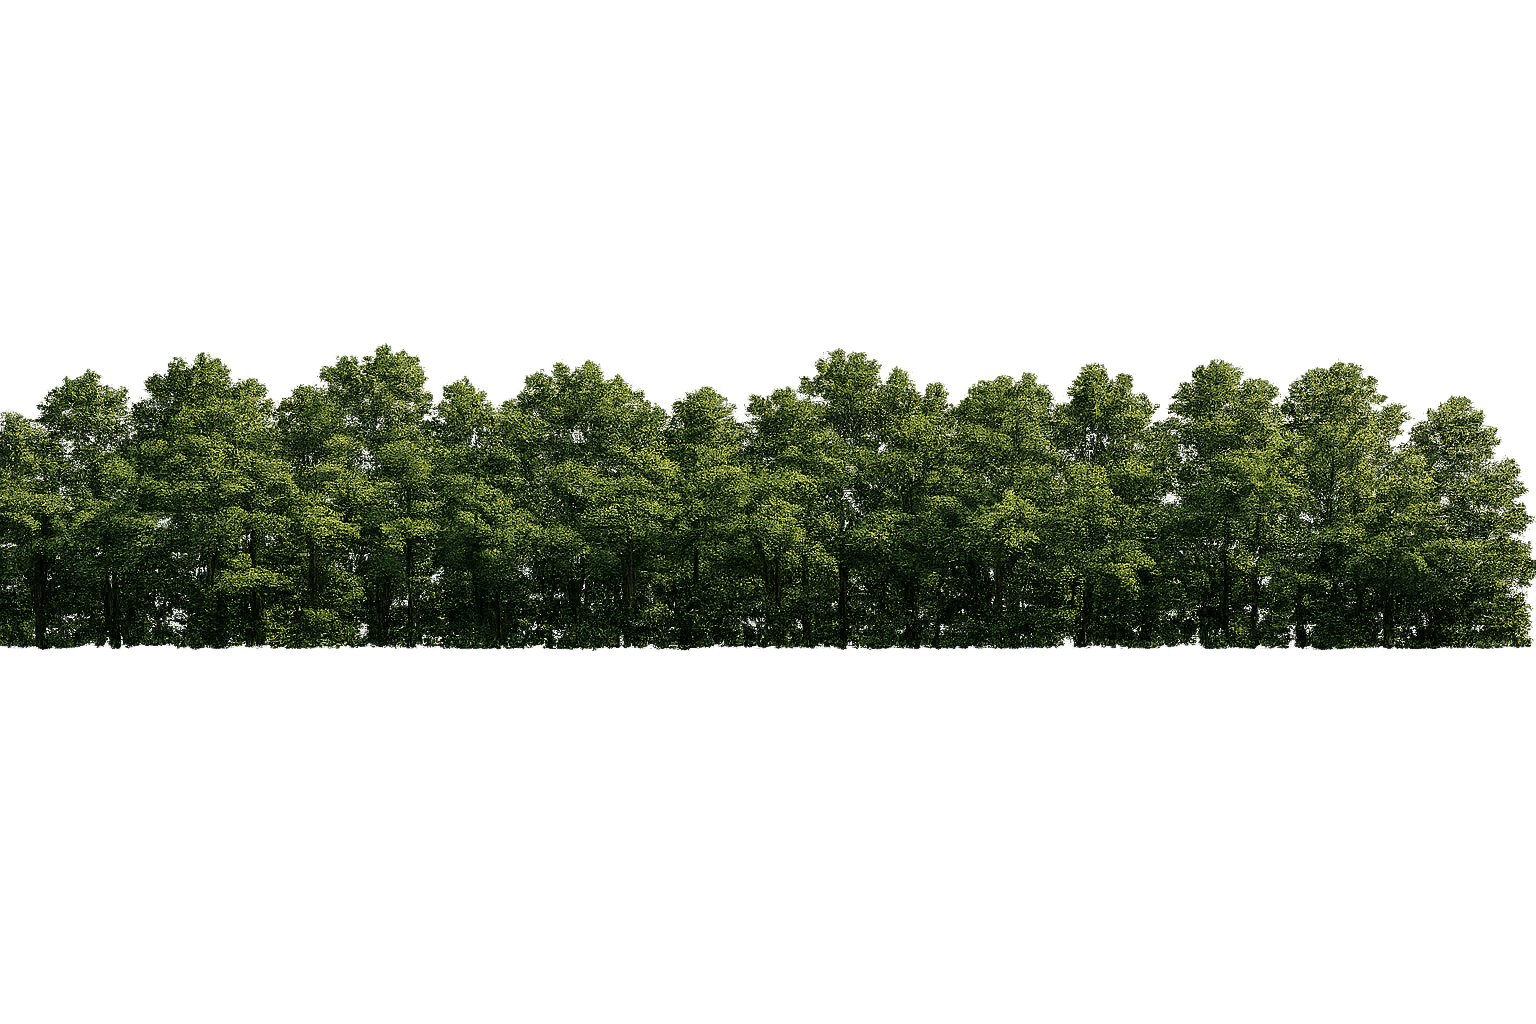
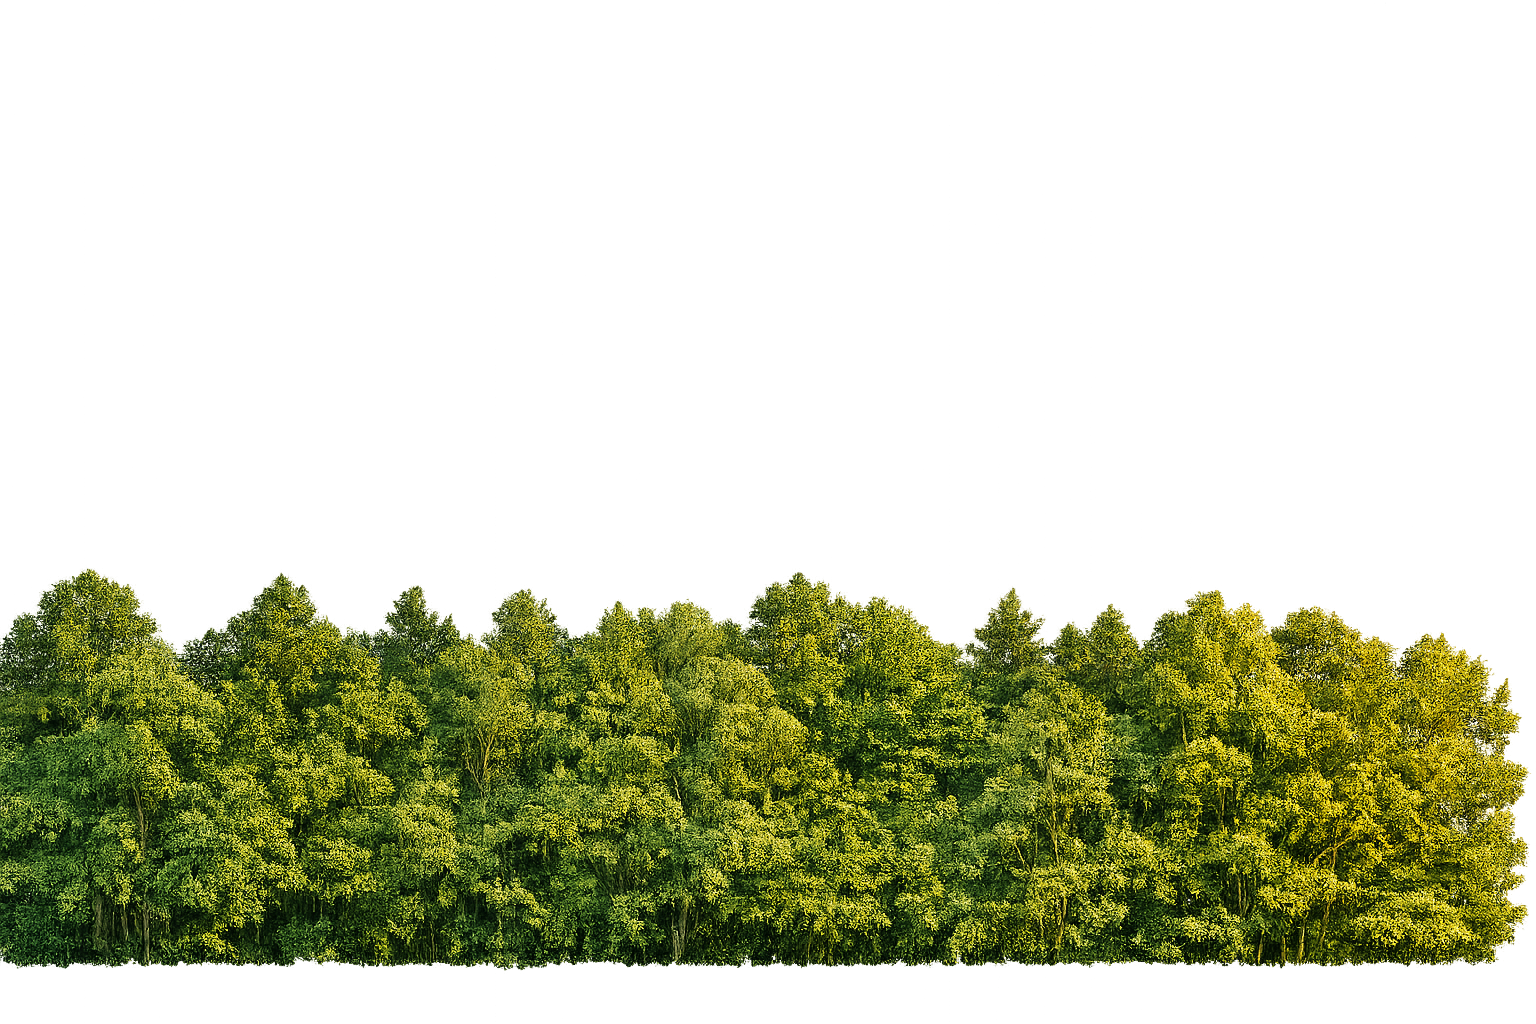
update up to static phases (parallax)

diff --git a/src/components/StaticSlide.jsx b/src/components/StaticSlide.jsx
@@ -1,28 +1,38 @@
-// src/components/StaticSlide.jsx — full-screen dark "breath" slide between animated sections
+// src/components/StaticSlide.jsx
 import { useEffect, useRef } from 'react'
 import { gsap } from 'gsap'
 import { ScrollTrigger } from 'gsap/ScrollTrigger'
 
-// Mouse parallax depth per layer — layer1 slowest (bg), layer3 fastest (fg)
-const MOUSE_DEPTHS = [0.012, 0.026, 0.044]
-
-// Scroll parallax — how many px each layer travels vertically across the full slide scroll
-const SCROLL_TRAVEL = [40, 80, 130]
-
-// Oversize to prevent edge gaps during movement (%)
 const OVERSIZE = 8
 
+// Per-slide config: layer count, mouse depth, scroll travel per layer
+const SLIDE_CONFIG = {
+  'static-identity':        { count: 4, depths: [0.006, 0.014, 0.024, 0.036], travel: [20, 45, 75, 110] },
+  'static-varazdin-transit':{ count: 4, depths: [0.006, 0.014, 0.024, 0.036], travel: [20, 45, 75, 110] },
+  'static-model':           { count: 4, depths: [0.006, 0.014, 0.024, 0.036], travel: [20, 45, 75, 110] },
+  'static-phases':          { count: 5, depths: [0.006, 0.012, 0.020, 0.030, 0.042], travel: [20, 40, 65, 95, 130] },
+  'static-full-vision':     { count: 4, depths: [0.006, 0.014, 0.024, 0.036], travel: [20, 45, 75, 110] },
+  'static-partnership':     { count: 4, depths: [0.006, 0.014, 0.024, 0.036], travel: [20, 45, 75, 110] },
+  'static-nextstep':        { count: 4, depths: [0.006, 0.014, 0.024, 0.036], travel: [20, 45, 75, 110] },
+  'static-contact':         { count: 4, depths: [0.006, 0.014, 0.024, 0.036], travel: [20, 45, 75, 110] },
+}
+
 function layerSrc(slideId, n) {
-  if (slideId === 'static-partnership' && n === 1) return `/parallax/${slideId}/layer${n}.jpg`
+  if (n === 1) return `/parallax/${slideId}/layer${n}.webp`
   return `/parallax/${slideId}/layer${n}.png`
 }
 
 export default function StaticSlide({ id, zIndex, height = '150vh', children }) {
   const containerRef = useRef(null)
   const wrapperRef   = useRef(null)
-  const layerRefs    = [useRef(null), useRef(null), useRef(null)]
-  const mouseXY      = useRef({ x: 0, y: 0 })
-  const hasParallax  = Boolean(id)
+  const layerRefs    = useRef([])
+  const hasParallax  = Boolean(id && SLIDE_CONFIG[id])
+  const cfg          = hasParallax ? SLIDE_CONFIG[id] : null
+
+  // Initialise refs array to match layer count
+  if (hasParallax && layerRefs.current.length !== cfg.count) {
+    layerRefs.current = Array.from({ length: cfg.count }, () => ({ current: null }))
+  }
 
   // ── scroll: fade + layer Y travel ────────────────────────────────────────
   useEffect(() => {
@@ -35,19 +45,18 @@ export default function StaticSlide({ id, zIndex, height = '150vh', children }) 
       },
     })
 
-    // Fade in/out
     tl.fromTo(wrapperRef.current,
       { opacity: 0 }, { opacity: 1, ease: 'none', duration: 0.08 }, 0)
     tl.to(wrapperRef.current,
       { opacity: 0, ease: 'none', duration: 0.08 }, 0.92)
 
-    // Scroll parallax — each layer shifts Y as slide scrolls
     if (hasParallax) {
-      layerRefs.forEach((ref, i) => {
+      layerRefs.current.forEach((ref, i) => {
         if (!ref.current) return
+        const travel = cfg.travel[i]
         tl.fromTo(ref.current,
-          { y: -SCROLL_TRAVEL[i] / 2 },
-          { y:  SCROLL_TRAVEL[i] / 2, ease: 'none', duration: 1 },
+          { y: -travel / 2 },
+          { y:  travel / 2, ease: 'none', duration: 1 },
           0
         )
       })
@@ -63,16 +72,13 @@ export default function StaticSlide({ id, zIndex, height = '150vh', children }) 
     const onMove = (e) => {
       const cx = (e.clientX / window.innerWidth  - 0.5) * 2
       const cy = (e.clientY / window.innerHeight - 0.5) * 2
-      mouseXY.current = { x: cx, y: cy }
 
-      layerRefs.forEach((ref, i) => {
+      layerRefs.current.forEach((ref, i) => {
         if (!ref.current) return
-        const depth = MOUSE_DEPTHS[i]
-        const mx = -cx * depth * window.innerWidth
-        const my = -cy * depth * window.innerHeight
+        const mx = -cx * cfg.depths[i] * window.innerWidth
         gsap.to(ref.current, {
           x: mx,
-          duration: 1.1 + i * 0.3,
+          duration: 1.0 + i * 0.25,
           ease: 'power2.out',
           overwrite: 'auto',
         })
@@ -100,21 +106,23 @@ export default function StaticSlide({ id, zIndex, height = '150vh', children }) 
           overflow: 'hidden',
         }}
       >
-        {hasParallax && [1, 2, 3].map((n, i) => (
-          <div
-            key={n}
-            ref={layerRefs[i]}
-            style={{
-              position: 'absolute',
-              inset: `-${OVERSIZE}%`,
-              backgroundImage: `url(${layerSrc(id, n)})`,
-              backgroundSize: 'cover',
-              backgroundPosition: 'center',
-              willChange: 'transform',
-              opacity: 1,
-            }}
-          />
-        ))}
+        {hasParallax && Array.from({ length: cfg.count }, (_, i) => {
+          const n = i + 1
+          return (
+            <div
+              key={n}
+              ref={el => layerRefs.current[i] = { current: el }}
+              style={{
+                position: 'absolute',
+                inset: n === 1 ? 0 : `-${OVERSIZE}%`,
+                backgroundImage: `url(${layerSrc(id, n)})`,
+                backgroundSize: 'cover',
+                backgroundPosition: 'center',
+                willChange: 'transform',
+              }}
+            />
+          )
+        })}
 
         <div style={{
           position: 'relative',
